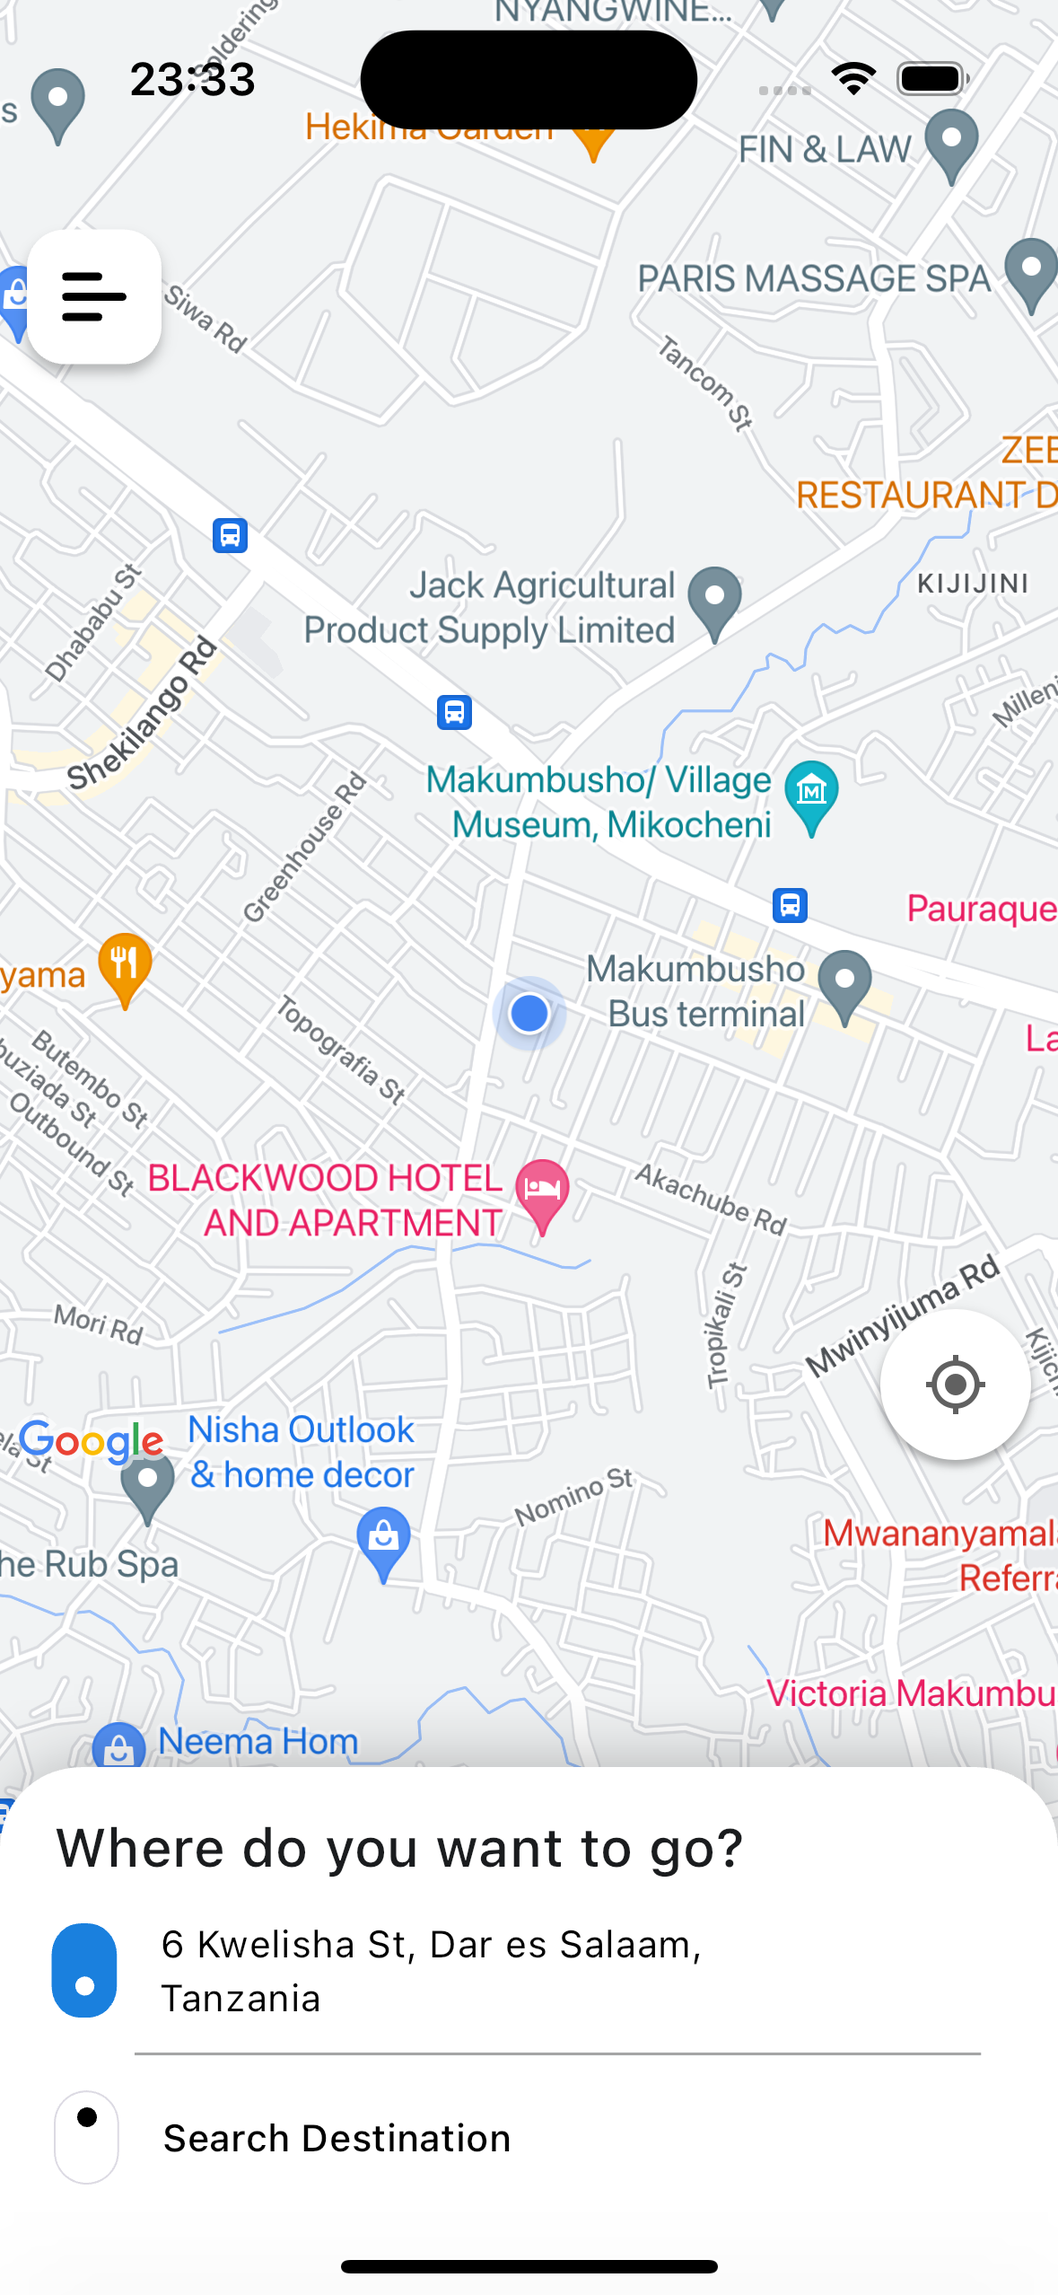
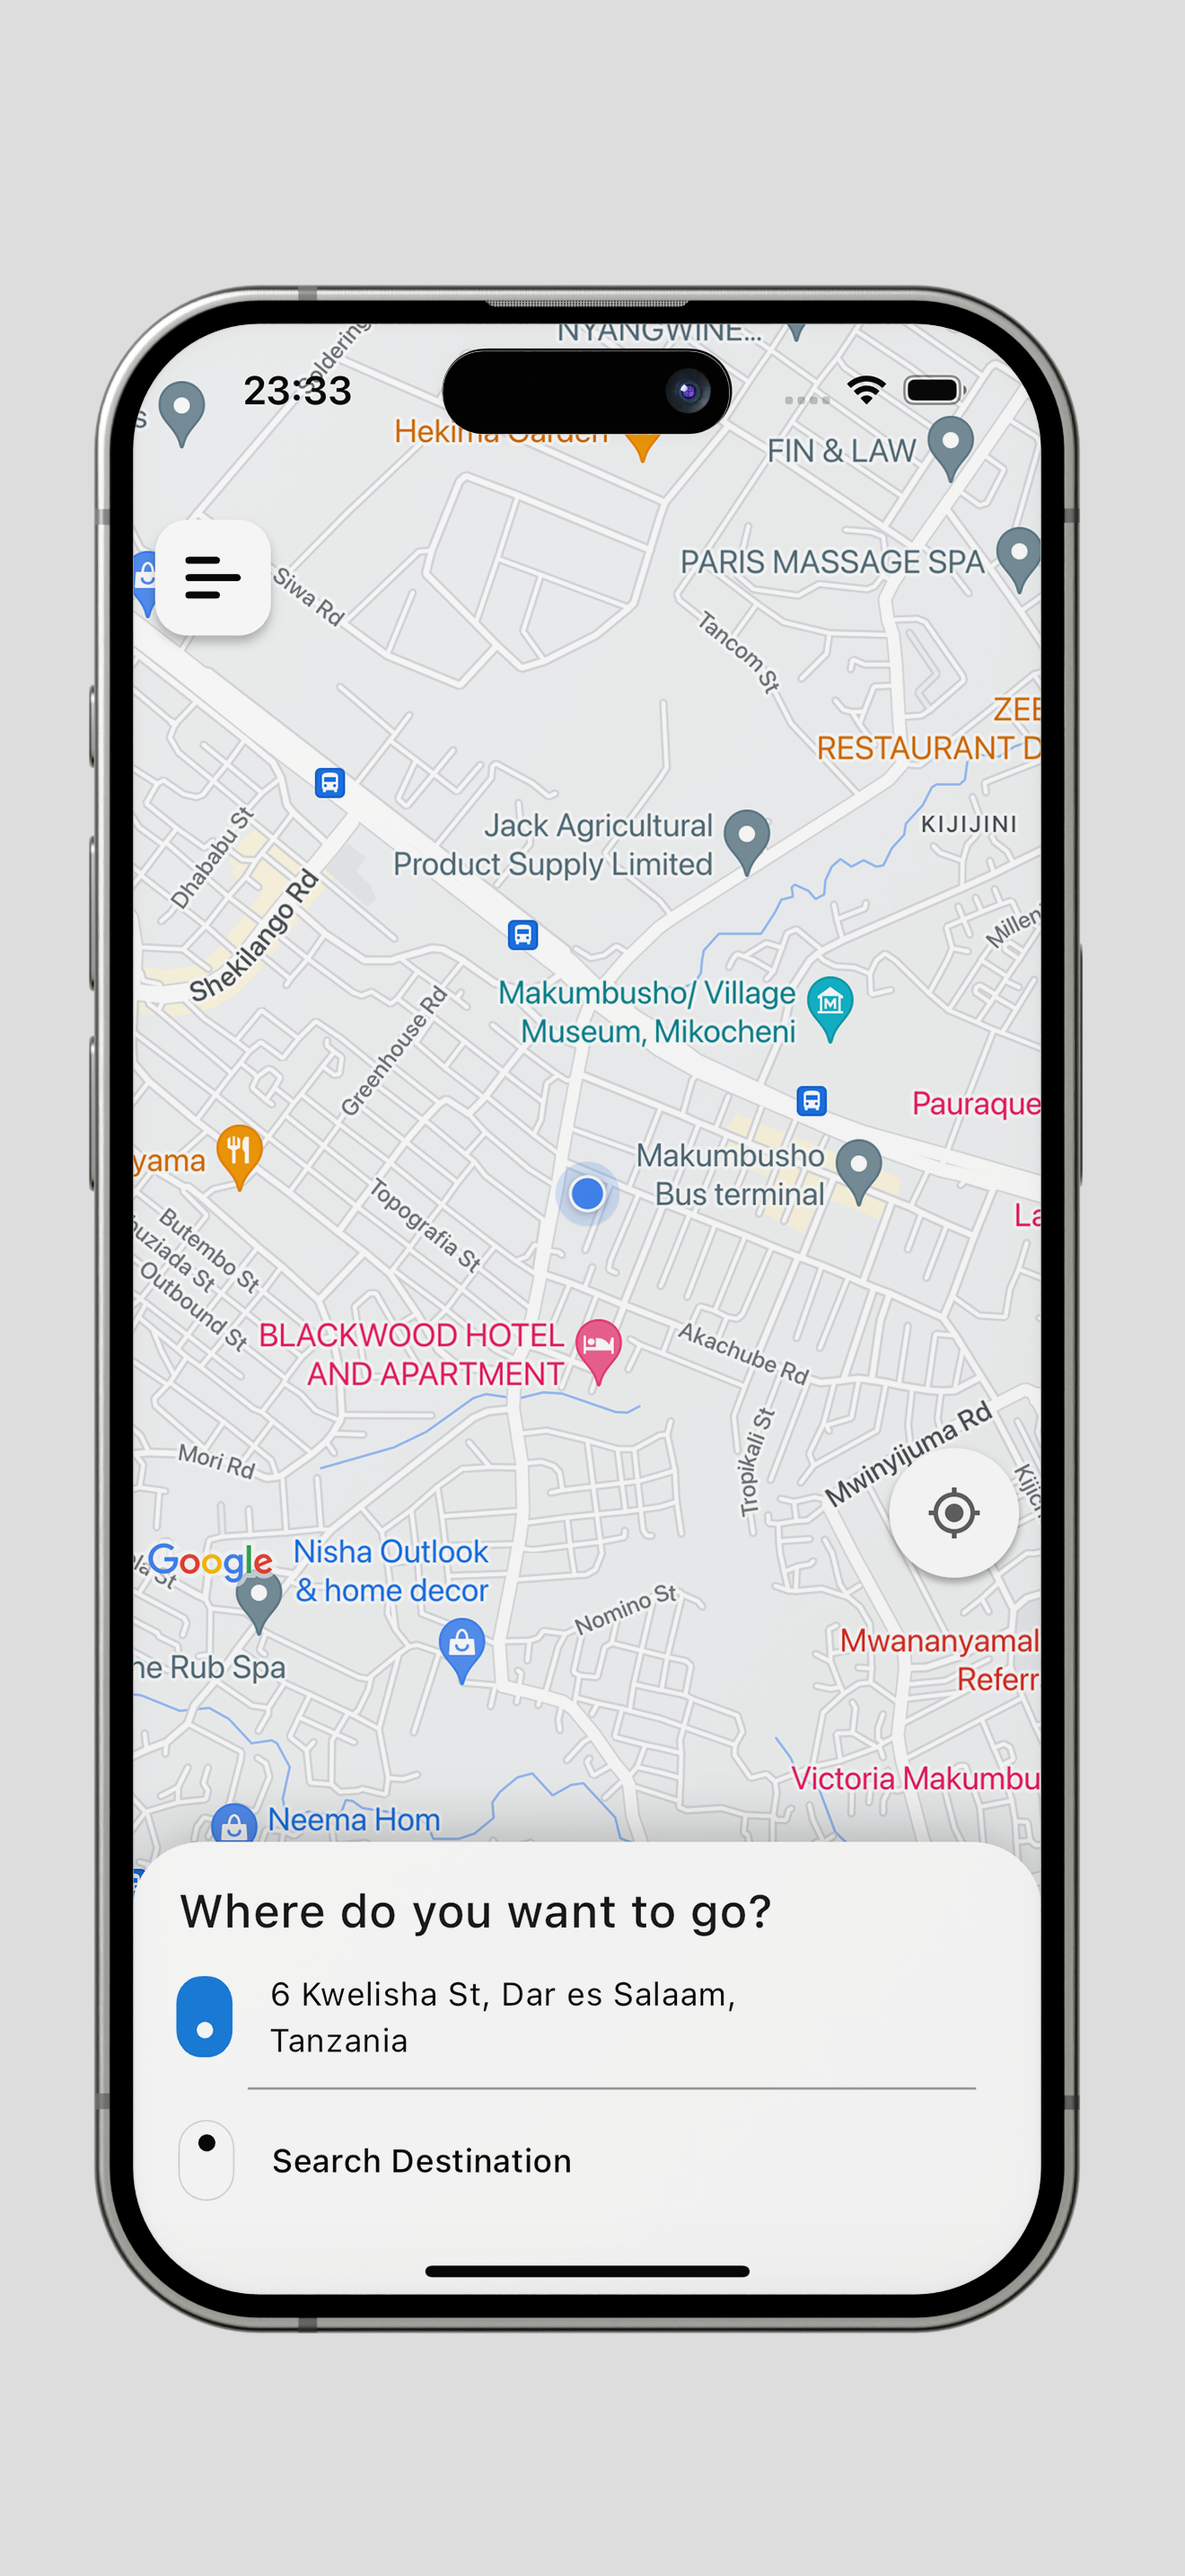
uniride screen updates

diff --git a/index.html b/index.html
@@ -444,9 +444,10 @@ to improve my skills and knowledge. There is alot more information about me that
                                 <h3>UniRide</h3>
                                 <a class="btn" href="img/uniride/home.png" data-lightbox="portfolio-item filter-9">+</a>
                                 <a href="img/uniride/search.png"  data-lightbox="portfolio-item filter-9"/></a>
-                                <a href="img/uniride/select_transport.png"  data-lightbox="portfolio-item filter-9"/></a>
-                                <a href="img/uniride/ride_wait.png"  data-lightbox="portfolio-item filter-9"/></a>
-                                <a href="img/uniride/chat screen.png"  data-lightbox="portfolio-item filter-9"/></a>
+                                <a href="img/uniride/select.png"  data-lightbox="portfolio-item filter-9"/></a>
+                                <a href="img/uniride/rideWait.png"  data-lightbox="portfolio-item filter-9"/></a>
+                                <a href="img/uniride/sidebar.png"  data-lightbox="portfolio-item filter-9"/></a>
+                                <a href="img/uniride/chat.png"  data-lightbox="portfolio-item filter-9"/></a>
                             </div>
                         </div>
                     </div>
